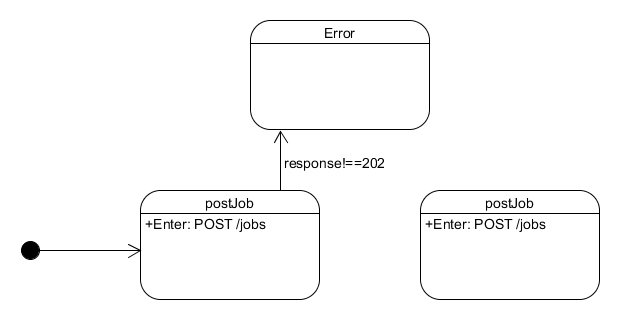
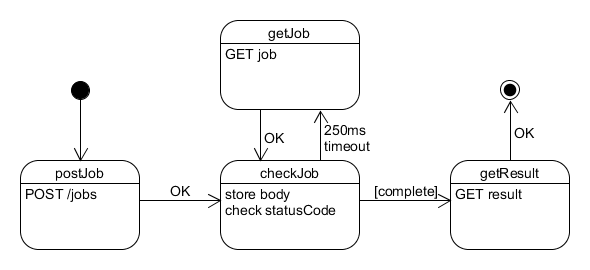
refactored to a simpler state machine structure - much simpler to follow

diff --git a/examples/longRest/longRest.js b/examples/longRest/longRest.js
@@ -7,45 +7,51 @@ const $http=require('http-as-promised');
 
 //the base url of the rest service
 const url='http://localhost:3000';
-//ensure the response is parsed as json and prevent the 303 causing an auto redirect
-const opts={json:true, followRedirect:false};
 
+//ensure the response is parsed as json and prevent the 303 causing an auto redirect
+const jobOpts={json:true, followRedirect:false};
+
+//the final get for the result object should just be the body
+const resultOpts={resolve:'body'};
+
+//declare the state machine
 var getJob=ryle({
   get _start(){return this.postJob},
 
+  //POST to the list of jobs
   postJob(){
-    return ryle.on($http.post(url+'/jobs',opts),this.checkPost)
+    return ryle.on($http.post(url+'/jobs',jobOpts),this.checkJob)
   },
 
-  checkPost(context, result){
-    context.job=result[1];
-    if (result[0].statusCode!==202) {
-      throw new Error('Unexpected status code '+result[0].statusCode+' from POST');
-    }
-    if (!context.job.location) {
-      throw new Error('No location included in POST response');
-    }
-    return this.getJob;
-  },
-
-  getJob(context){
-    return ryle.on($http(url+context.job.location, opts), this.checkJob);
-  },
-
+  //check the result of either the POST or GET
   checkJob(context, result){
-    if (result[0].statusCode!==303) {
+    //store the result
+    context.job=result;
+
+    //if the response is a redirect then act on it and get the final result
+    if (result[0].statusCode===303) {
+      return this.getResult;
+    }
+
+    //otherwise if the body contains a property 'location' then get the job after a delay
+    if (result[1] && result[1].location) {
       return ryle.onTimeout(250,this.getJob);
     }
-    context.output=result[0].headers.location;
-    return this.getResult;
+
+    //otherwise the result was unexpected so throw an error
+    throw new Error('Unexpected response');
   },
 
+  //get the job object
+  getJob(context){
+    return ryle.on($http(url+context.job[1].location, jobOpts), this.checkJob);
+  },
+
+  //get the result
   getResult(context){
-    return ryle.on($http(url+context.output, opts), this.gotResult);
-  },
-
-  gotResult(context, result){
-    return ryle.exit(result[1]);
+    //because the options specify to return a promise which resolves to the body
+    //then this can just be returned as the result of the state machine
+    return ryle.exit($http(url+context.job[0].headers.location, resultOpts));
   }
 });
 

diff --git a/examples/longRest/longRestService.js b/examples/longRest/longRestService.js
@@ -13,14 +13,19 @@ var results=[];
 //POSTing to /jobs will return 202 (Accepted)
 app.post('/jobs',(req,res)=>{
   //how long the job will take - random time up to 2 seconds
-  tasks.push({completes: Date.now().valueOf()+Math.floor(Math.random()*2000)});
-  res.status(202).send({location:"/tasks/"+(tasks.length-1)});
+  var task={
+    completes: Date.now()+Math.floor(Math.random()*2000),
+    location:"/tasks/"+tasks.length,
+    status: "incomplete"
+  };
+  tasks.push(task);
+  res.status(202).send(task);
 });
 
 //GET a task in ptogress
 app.get('/tasks/:id',(req,res)=>{
   //check that the task exists
-  if (req.params.id<tasks.length && req.params.id>0){
+  if (req.params.id<tasks.length && req.params.id>=0){
     var task=tasks[req.params.id];
     //complete the task if it is due
     if (!task.result && task.completes<Date.now().valueOf()){
@@ -31,7 +36,7 @@ app.get('/tasks/:id',(req,res)=>{
     if (task.result){
       res.redirect(303, "/results/"+task.result);
     } else {
-      res.send({status: "incomplete"});
+      res.send(task);
     }
   } else {
     //the task does not exist
@@ -41,7 +46,7 @@ app.get('/tasks/:id',(req,res)=>{
 
 //return a result if it exists
 app.get('/results/:id',(req,res)=>{
-  if (req.params.id<results.length && req.params.id>0){
+  if (req.params.id<results.length && req.params.id>=0){
     res.send(results[req.params.id]);
   } else {
     res.sendStatus(404);
